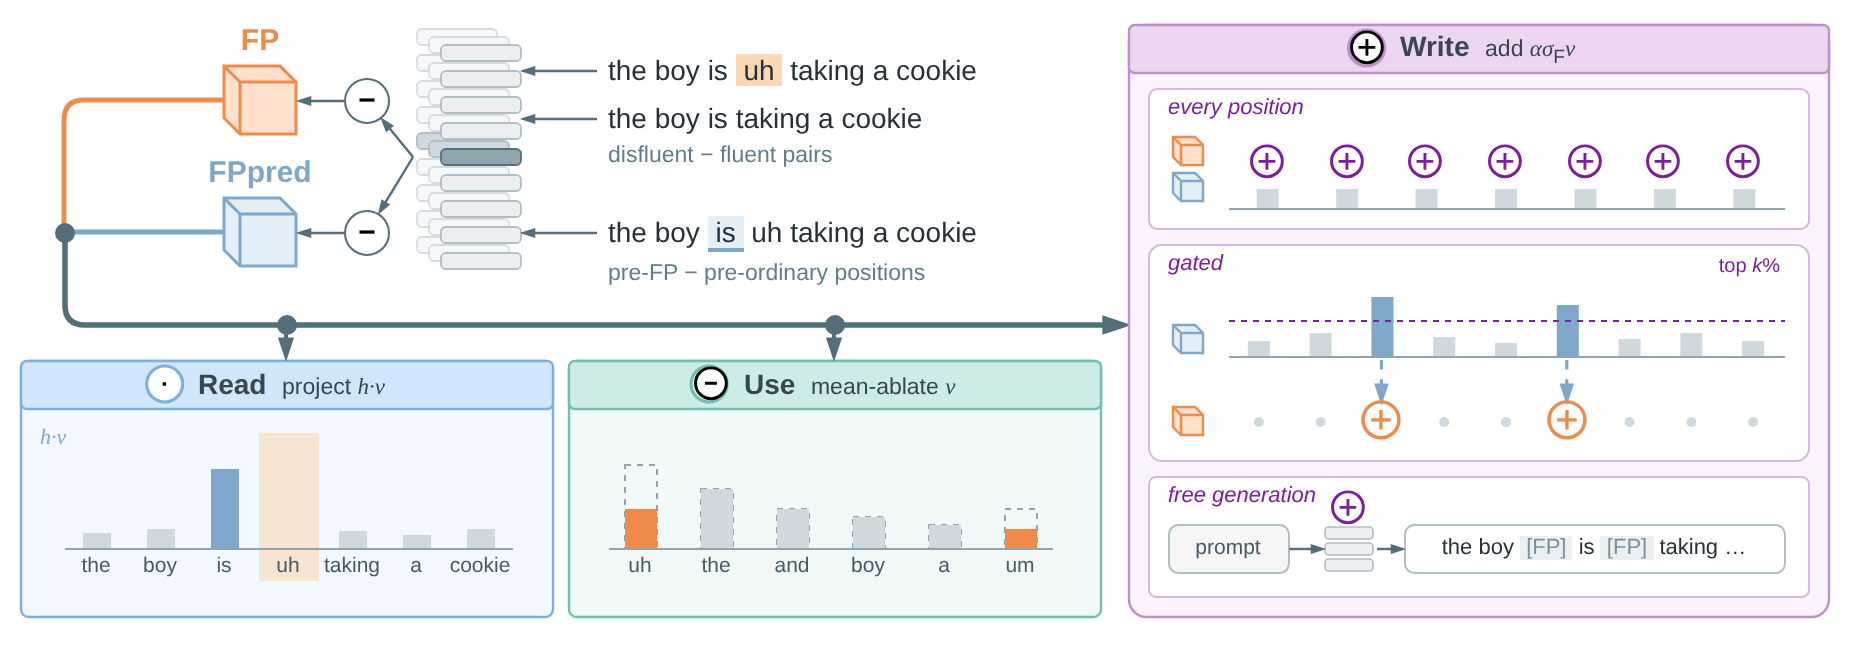
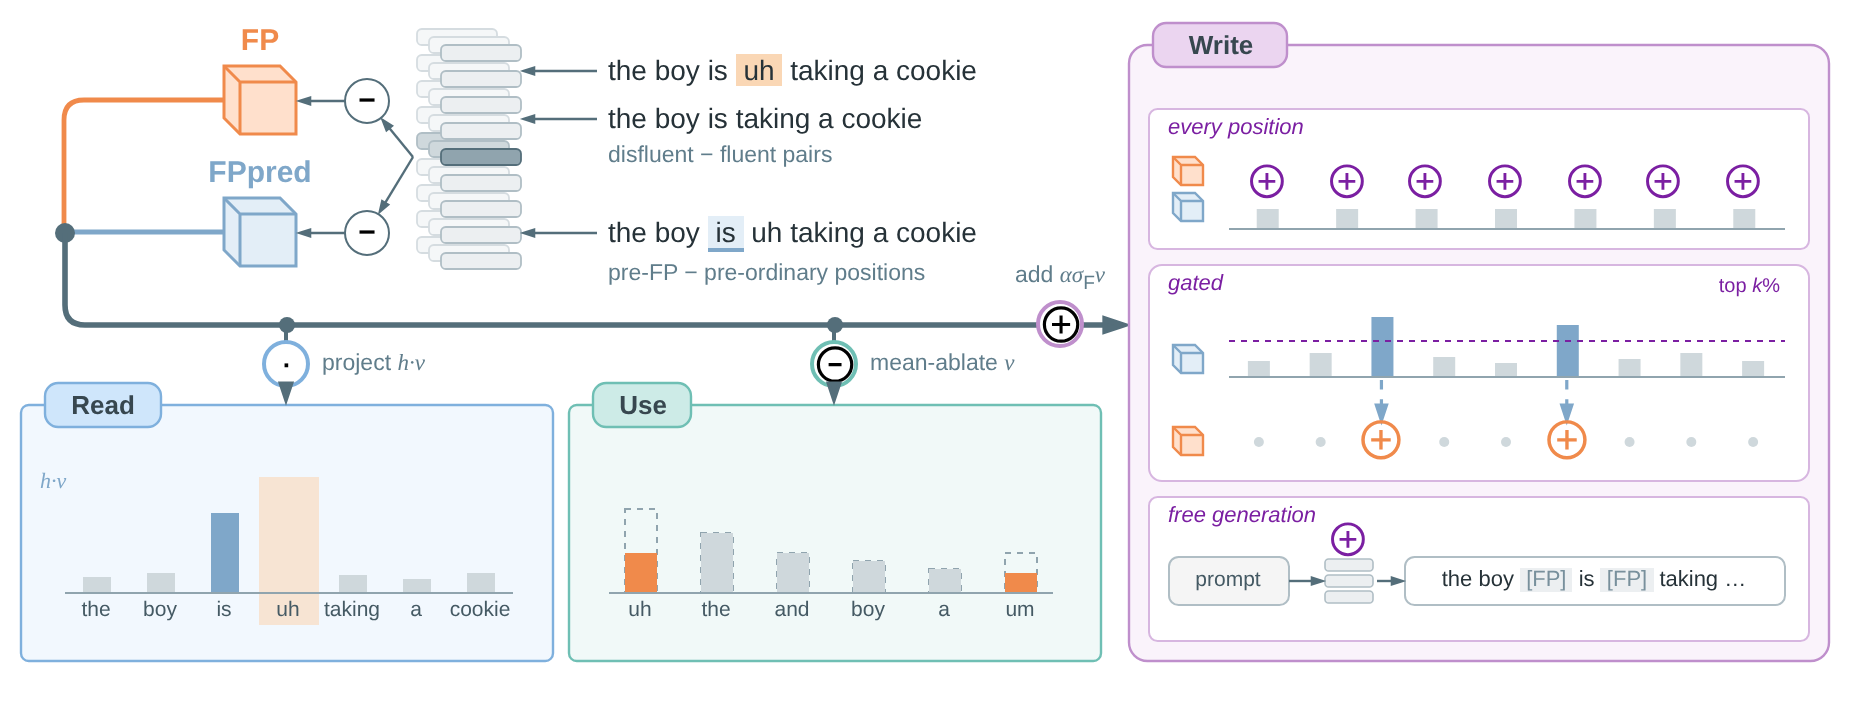
Overview figure v20: tabbed stage frames, operation symbols on the incoming arrows
Claude-Session: https://claude.ai/code/session_01Nr8f45fQSeuNoeBXRTJGZT

diff --git a/figures/gen_overview.py b/figures/gen_overview.py
@@ -71,7 +71,7 @@ def tab(label, x, y, w):
 
 
 
-W, H = 920, 312
+W, H = 920, 334
 DARK = "#37474F"
 NOTE = "#607D8B"
 GREY_BAR = "#CFD8DC"
@@ -140,8 +140,8 @@ v("", 25, PRY - 5, 10, 10, f"ellipse;html=1;fillColor={LINE};strokeColor=none;")
 e(None, None, f"endArrow=blockThin;endFill=1;strokeColor={LINE};strokeWidth=2.8;", sp=(30, PRY), pts=[(30, RL)], tp=(WX, RL))
 
 # ======================= stages =======================
-PY, PH = 176, 128
-WY, WH = 8, PY + PH - 8
+PY, PH = 198, 128
+WY, WH = 18, PY + PH - 18
 PANELS = {"Read": (8, 266, PY, PH), "Use": (282, 266, PY, PH), "Write": (WX, 912 - WX, WY, WH)}
 STYLE = {"Read": ("#F2F8FE", "#CFE6FB", "#7FB0DD", "·", f"project {serif('h·v')}"),
          "Use": ("#F1F9F8", "#CDEBE7", "#6FBFB4", "⊖", f"mean-ablate {serif('v')}"),
@@ -149,17 +149,24 @@ STYLE = {"Read": ("#F2F8FE", "#CFE6FB", "#7FB0DD", "·", f"project {serif('h·v'
 for name, (x, w, y, h) in PANELS.items():
     body, head, stroke, op, formula = STYLE[name]
     v("", x, y, w, h, f"rounded=1;arcSize=3;html=1;fillColor={body};strokeColor={stroke};strokeWidth=1.2;")
-    v("", x, y, w, 24, f"rounded=1;arcSize=12;html=1;fillColor={head};strokeColor={stroke};strokeWidth=1.2;")
-    # centred header: [op] Name  formula  (text width estimated from character counts)
-    plain = {"Read": "project h·v", "Use": "mean-ablate v", "Write": "add ασFv"}[name]
-    tw = len(name) * 9 + 10 + len(plain) * 6.3
-    hx0 = x + (w - (18 + 6 + tw)) / 2
-    v(op, hx0, y + 3, 18, 18, f"ellipse;html=1;fillColor=#FFFFFF;strokeColor={stroke};strokeWidth=1.6;fontSize=12;fontStyle=1;" + FONT)
-    text(f"<b>{name}</b>&nbsp;&nbsp;<font style='font-size:11.5px'>{formula}</font>", hx0 + 24, y + 2, tw + 20, 20, 14, DARK)
+    # small title tab straddling the frame's top-left corner
+    tw = len(name) * 9 + 22
+    v(f"<b>{name}</b>", x + 12, y - 11, tw, 22,
+      f"rounded=1;arcSize=30;html=1;fillColor={head};strokeColor={stroke};strokeWidth=1.2;fontSize=13;fontColor={DARK};" + FONT)
+    # operation symbol sits on the arrow that brings the direction into the stage
+    OPS = f"ellipse;html=1;fillColor=#FFFFFF;strokeColor={stroke};strokeWidth=2;fontSize=13;fontStyle=1;" + FONT
     if name != "Write":
         cx_ = x + w / 2
-        v("", cx_ - 5, RL - 5, 10, 10, f"ellipse;html=1;fillColor={LINE};strokeColor=none;")
-        e(None, None, f"endArrow=blockThin;endFill=1;strokeColor={LINE};strokeWidth=2;", sp=(cx_, RL), tp=(cx_, y))
+        oy = (RL + y) / 2
+        e(None, None, f"endArrow=none;strokeColor={LINE};strokeWidth=2;", sp=(cx_, RL), tp=(cx_, oy - 11))
+        v(op, cx_ - 11, oy - 11, 22, 22, OPS)
+        e(None, None, f"endArrow=blockThin;endFill=1;strokeColor={LINE};strokeWidth=2;", sp=(cx_, oy + 11), tp=(cx_, y))
+        text(f"<font color='{NOTE}'>{formula}</font>", cx_ + 16, oy - 9, 140, 18, 11.5, DARK)
+        v("", cx_ - 4, RL - 4, 8, 8, f"ellipse;html=1;fillColor={LINE};strokeColor=none;")
+    else:
+        ox = WX - 34
+        v(op, ox - 11, RL - 11, 22, 22, OPS)
+        text(f"<font color='{NOTE}'>{formula}</font>", ox - 50, RL - 32, 100, 18, 11.5, DARK, "center")
 
 # ---- Read: h·v peaks just before the FP
 x, w, y, h = PANELS["Read"]

diff --git a/figures/overview_prompt.md b/figures/overview_prompt.md
@@ -205,3 +205,8 @@ Write 栏挂钩前放门控菱形 `FPpred high?`，接收来自 ② 的 `externa
 ---
 
 **暂定稿：v19（commit 3dcc1df）。** 后续修改改 `figures/gen_overview.py` 后重新生成 `overview.drawio`。
+
+## 24. v20
+
+- 阶段面板改为“大框 + 左上角小标题框（Read / Use / Write）”，去掉整条表头。
+- 操作符号 · ⊖ ⊕ 放到方向线进入各阶段的箭头上，旁注公式（project h·v / mean-ablate v / add ασ_F v），表示对表征的处理方式。
